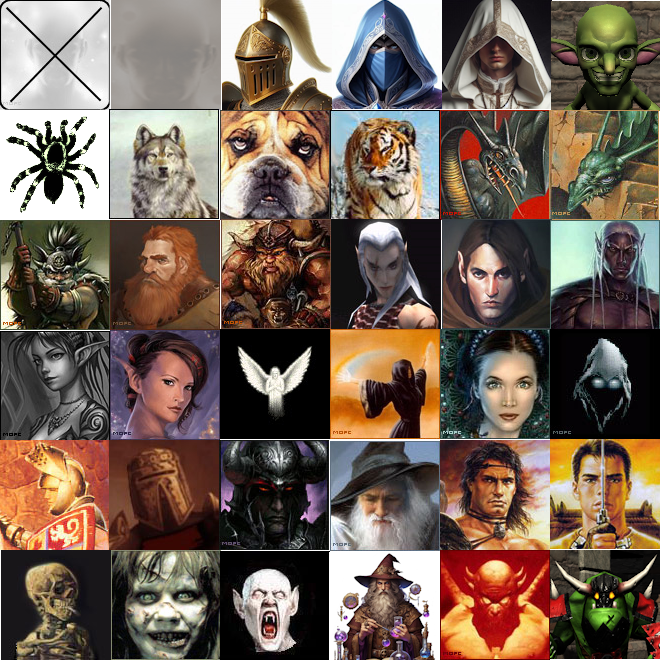
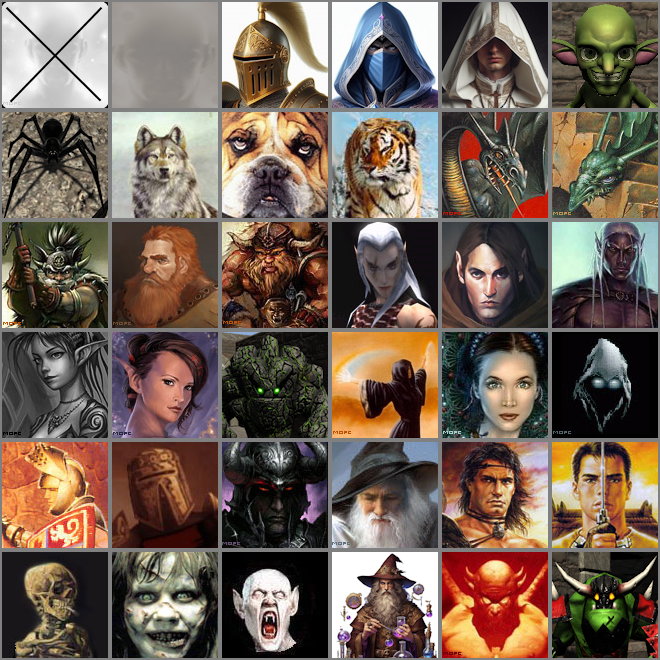
some corrections

Changed region(s): [[0.0, 0.0, 1.0, 1.0], [0.9697, 0.6364, 1.0, 0.697], [0.0, 0.0, 0.0303, 0.0303]]

diff --git a/Assets/Scripts/Game/Characters/CMovable.cs b/Assets/Scripts/Game/Characters/CMovable.cs
@@ -253,6 +253,34 @@ public abstract class CMovable
             gamemap.ActivateCells(false);
         }
     }
+    private void ActivateCellsToSprint(Cell _cell, int _distance)
+    {
+        Cell cell;
+        EMapDirection dirStart, dir;
+        int i;
+
+        topHeight = _cell.GetHeight() + 0.5f;
+        dirStart = EMapDirection.east;
+        dir = dirStart;
+        do
+        {
+            cell = _cell;
+            for (i = 0; i < _distance; i++)
+            {
+                cell = gamemap.GetCell(cell.GetNearNumber(dir));
+                if (cell == null) break;
+                if (cell.GetHeight() > topHeight) break;
+                if (CheckSurface(cell) && cell.GetGameObject() == null)
+                {
+                    cell.SetActive(true);
+                    cell.SetValue((int)dir);
+                }
+                else break;
+            }
+            dir = CDirControl.GetLeft(dir);
+        }
+        while (dir != dirStart);
+    }
     private void ActivateCellsToJump(Cell _cell, int _distance, float _roof)
     {
         Cell cell;
@@ -313,13 +341,15 @@ public abstract class CMovable
             if (!(CheckSurface(cell) && cell.GetGameObject() == null)) break;
             actor.AddCommand(ActorCommand.jump);
         } while (cell != _cell);
+
+        if (cell != _cell) Debug.Log("Sprint failed!");
     }
     protected void StandartSprint(int _speed)
     {
         if (selectedCell == null)
         {
             selectedCommand = ECharacterCommand.jump;
-            ActivateCellsToJump(actor.GetCurrentCell(), _speed, actor.GetCurrentCell().GetHeight() + 1.0f);
+            ActivateCellsToSprint(actor.GetCurrentCell(), _speed);
         }
         else
         {

diff --git a/Assets/Scripts/Game/Characters/CharacterManager.cs b/Assets/Scripts/Game/Characters/CharacterManager.cs
@@ -206,6 +206,9 @@ public class CharacterManager : MonoBehaviour, ICharacterManager
             case EActorType.spider:
                 num = 6;
                 break;
+            case EActorType.golem:
+                num = 20;
+                break;
             default:
                 num = 1;
                 break;
@@ -271,6 +274,7 @@ public class CharacterManager : MonoBehaviour, ICharacterManager
                 }
                 break;
             case ERegularClass.guard:
+            case ERegularClass.savager:
                 if (templateCharacter.typeConstitution == EConstitution.balanced)
                 {
                     templateCharacter.attributes.might++;

diff --git a/Assets/Scripts/lib/CCamera.cs b/Assets/Scripts/lib/CCamera.cs
@@ -23,8 +23,8 @@ public class CCamera : MonoBehaviour, ICamera
     private Vector3 viewpoint;
     private Vector3[] positionList;
     private Vector3 currentPosition;
-    private float height = 10.0f;
-    private float distance = 10.0f;
+    private float height = 5.0f;
+    private float distance = 5.0f;
     private bool isViewLock = true;
 
     private void InitPositions()

diff --git a/Assets/Scripts/UI/CBattle.cs b/Assets/Scripts/UI/CBattle.cs
@@ -33,7 +33,7 @@ public class CBattle : CUI, IBattle
     [SerializeField] private Button[] actionButtons = new Button[10];
     private float cameraSpeed = 10.0f;
     private int cameraDirection;
-    private float cameraDistance = 10.0f;
+    private float cameraDistance = 5.0f;
     private Image imgChar;
     private Text nameChar;
     private ICharacter currentCharacter;

diff --git a/Assets/Scripts/UI/CNewGamePanel.cs b/Assets/Scripts/UI/CNewGamePanel.cs
@@ -66,7 +66,7 @@ public class CNewGamePanel : CUI
         {
             iCharacterManager.AddCharacter(chr);
         }
-        if (iCharacterManager.GenerateStandartCharacter(EUnitType.golem, out chr))
+        if (iCharacterManager.GenerateStandartCharacter(EUnitType.spider, out chr))
         {
             iCharacterManager.AddCharacter(chr);
         }
